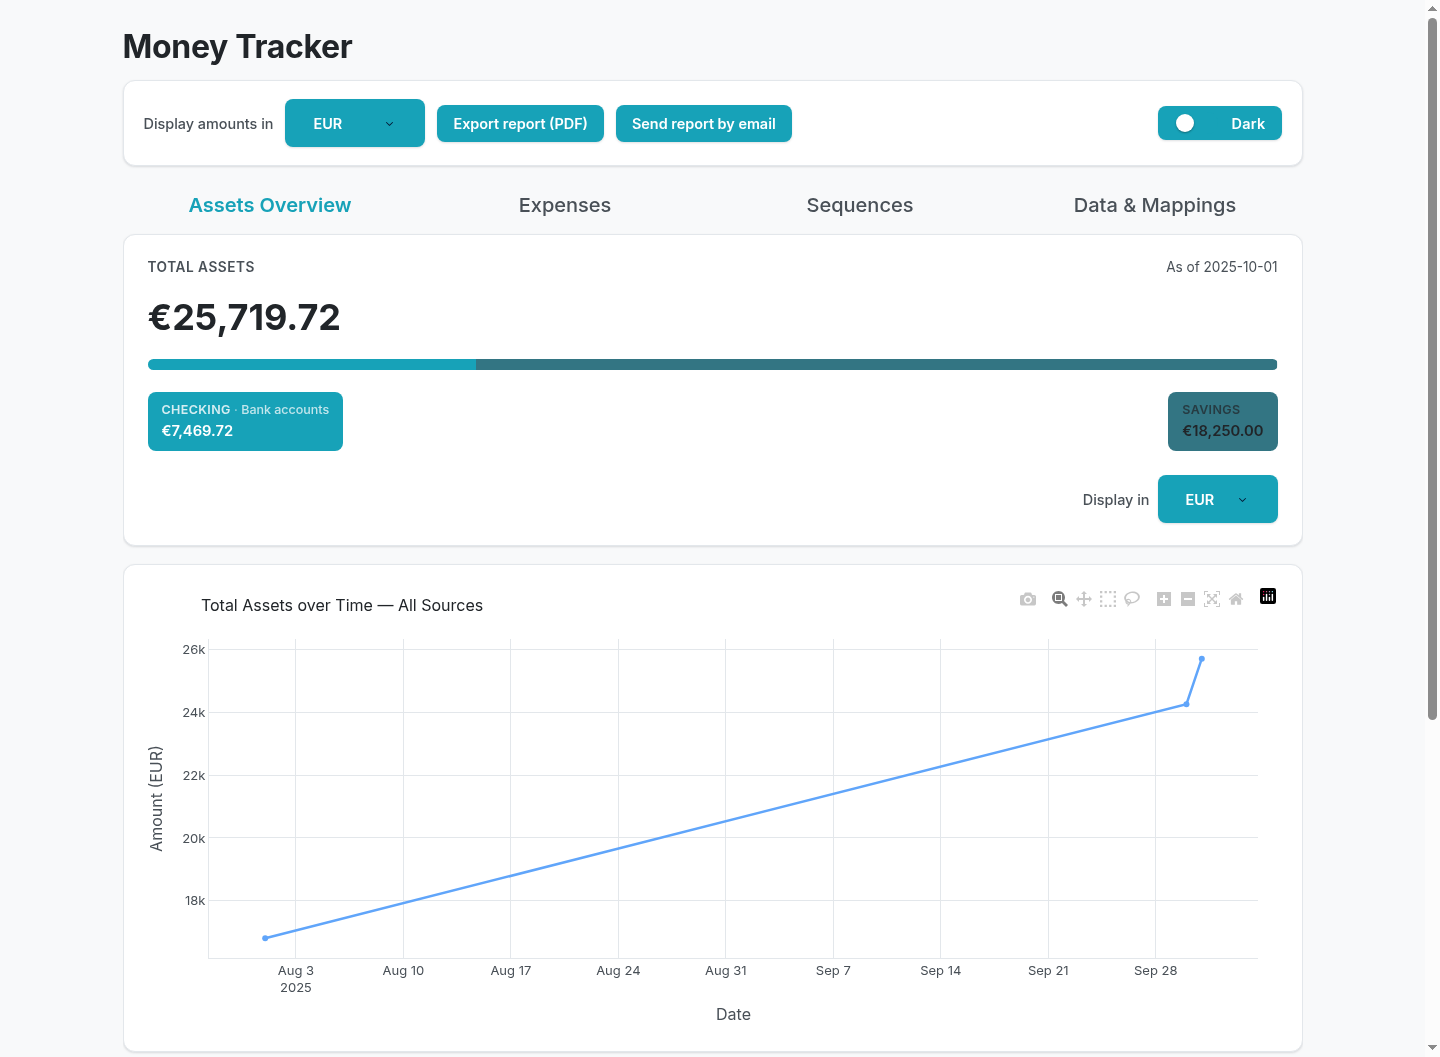
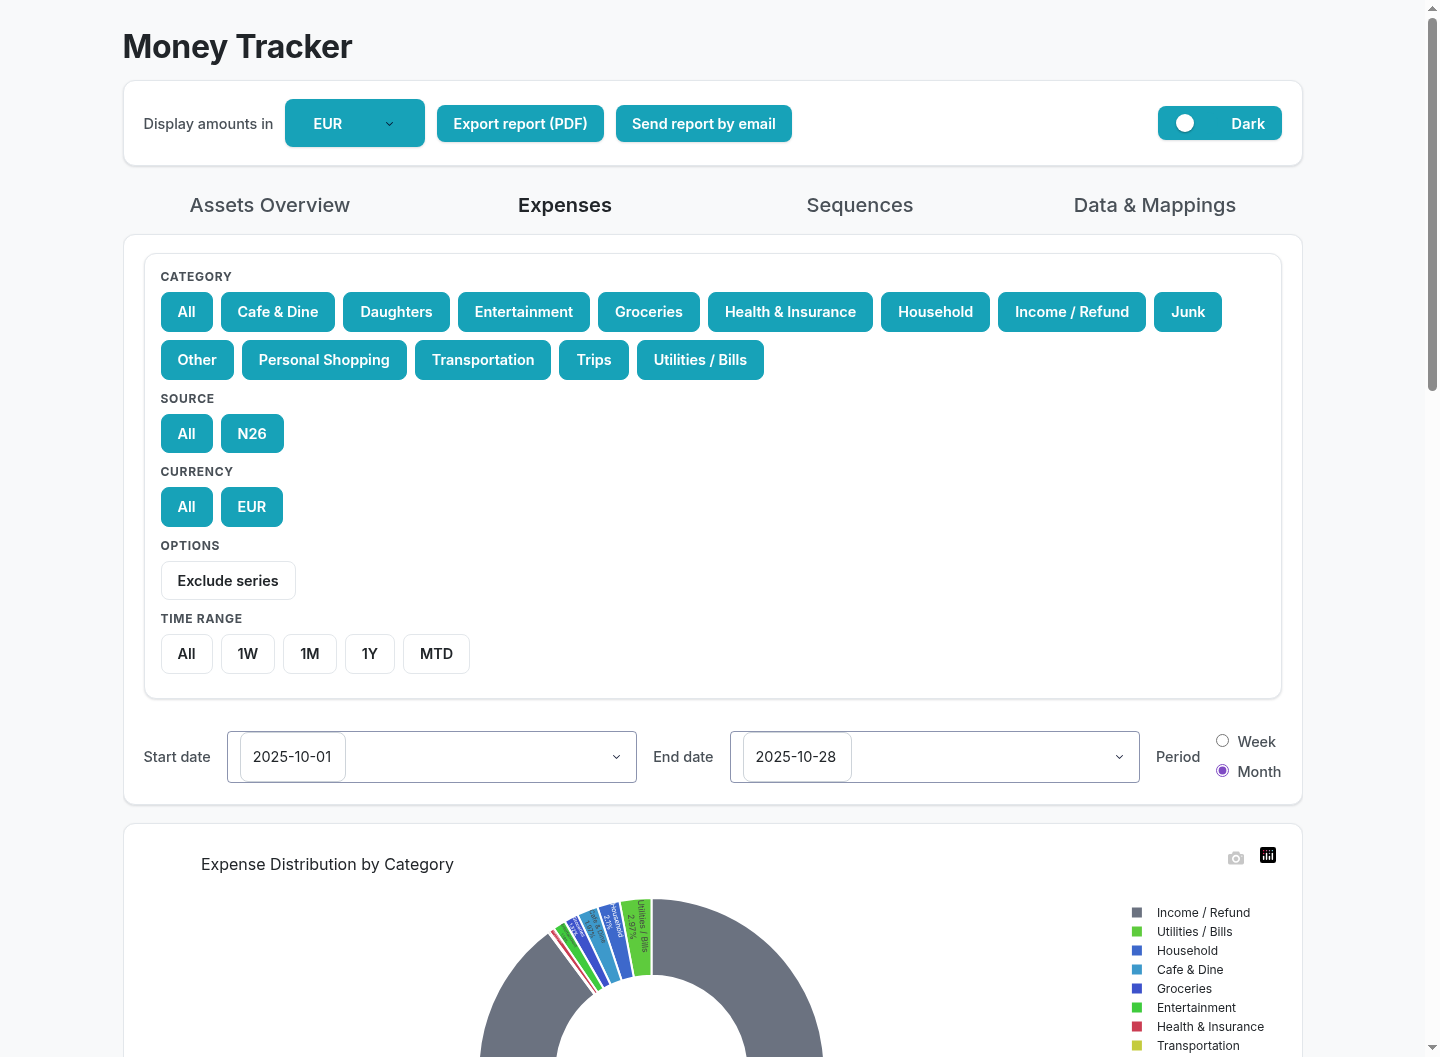
Update README.

diff --git a/scripts/capture_readme_screenshots.py b/scripts/capture_readme_screenshots.py
@@ -34,6 +34,33 @@ def _click_tab(driver, label: str) -> None:
     raise RuntimeError(f"Tab not found: {label}")
 
 
+def _current_theme(driver) -> str:
+    return driver.execute_script(
+        "return document.documentElement.getAttribute('data-theme') || 'teal';"
+    )
+
+
+def _set_theme(driver, theme: str) -> None:
+    theme = "dark" if theme == "dark" else "teal"
+    for _ in range(3):
+        if _current_theme(driver) == theme:
+            return
+        driver.find_element(By.ID, "theme-toggle").click()
+        time.sleep(1.5)
+    raise RuntimeError(f"Could not switch theme to {theme}")
+
+
+def _capture_tab_screenshots(driver, out_dir: str, *, suffix: str = "") -> None:
+    _click_tab(driver, "Expenses")
+    driver.save_screenshot(os.path.join(out_dir, f"01-expenses{suffix}.png"))
+    _click_tab(driver, "Assets Overview")
+    driver.save_screenshot(os.path.join(out_dir, f"02-assets{suffix}.png"))
+    _click_tab(driver, "Sequences")
+    driver.save_screenshot(os.path.join(out_dir, f"03-sequences{suffix}.png"))
+    _click_tab(driver, "Data & Mappings")
+    driver.save_screenshot(os.path.join(out_dir, f"04-data-mappings{suffix}.png"))
+
+
 def main() -> int:
     repo_root = os.path.abspath(os.path.join(os.path.dirname(__file__), ".."))
     out_dir = os.path.join(repo_root, "docs", "screenshots")
@@ -62,13 +89,13 @@ def main() -> int:
         try:
             driver.get(base_url)
             time.sleep(3)
-            driver.save_screenshot(os.path.join(out_dir, "01-expenses.png"))
-            _click_tab(driver, "Assets Overview")
-            driver.save_screenshot(os.path.join(out_dir, "02-assets.png"))
-            _click_tab(driver, "Sequences")
-            driver.save_screenshot(os.path.join(out_dir, "03-sequences.png"))
-            _click_tab(driver, "Data & Mappings")
-            driver.save_screenshot(os.path.join(out_dir, "04-data-mappings.png"))
+            driver.execute_script("window.localStorage.clear();")
+            driver.refresh()
+            time.sleep(3)
+            _set_theme(driver, "teal")
+            _capture_tab_screenshots(driver, out_dir)
+            _set_theme(driver, "dark")
+            _capture_tab_screenshots(driver, out_dir, suffix="-dark")
         finally:
             driver.quit()
     finally:

diff --git a/README.md b/README.md
@@ -7,15 +7,27 @@ Personal expense tracking with a CSV pipeline, trip **sequences**, asset snapsho
 
 ## Demo app snapshots
 
-Screenshots captured from the bundled demo (12 transactions, fictional asset balances ~**€25.7k** total):
+Screenshots captured from the bundled demo (12 transactions, fictional asset balances ~**€25.7k** total). Tab order matches the dashboard: **Assets Overview** (default), **Expenses**, **Sequences**, **Data & Mappings**.
 
-| Expenses | Assets |
-|----------|--------|
-| ![Expenses charts and table](docs/screenshots/01-expenses.png) | ![Assets overview with balances](docs/screenshots/02-assets.png) |
+### Teal (light)
+
+| Assets | Expenses |
+|--------|----------|
+| ![Assets overview with balances](docs/screenshots/02-assets.png) | ![Expenses charts and table](docs/screenshots/01-expenses.png) |
 
 | Sequences | Data & mappings |
 |-----------|-----------------|
 | ![Sequences tab](docs/screenshots/03-sequences.png) | ![Partner and category mappings](docs/screenshots/04-data-mappings.png) |
+
+### Dark
+
+| Assets | Expenses |
+|--------|----------|
+| ![Assets overview with balances (dark)](docs/screenshots/02-assets-dark.png) | ![Expenses charts and table (dark)](docs/screenshots/01-expenses-dark.png) |
+
+| Sequences | Data & mappings |
+|-----------|-----------------|
+| ![Sequences tab (dark)](docs/screenshots/03-sequences-dark.png) | ![Partner and category mappings (dark)](docs/screenshots/04-data-mappings-dark.png) |
 
 Regenerate after UI changes:
 
